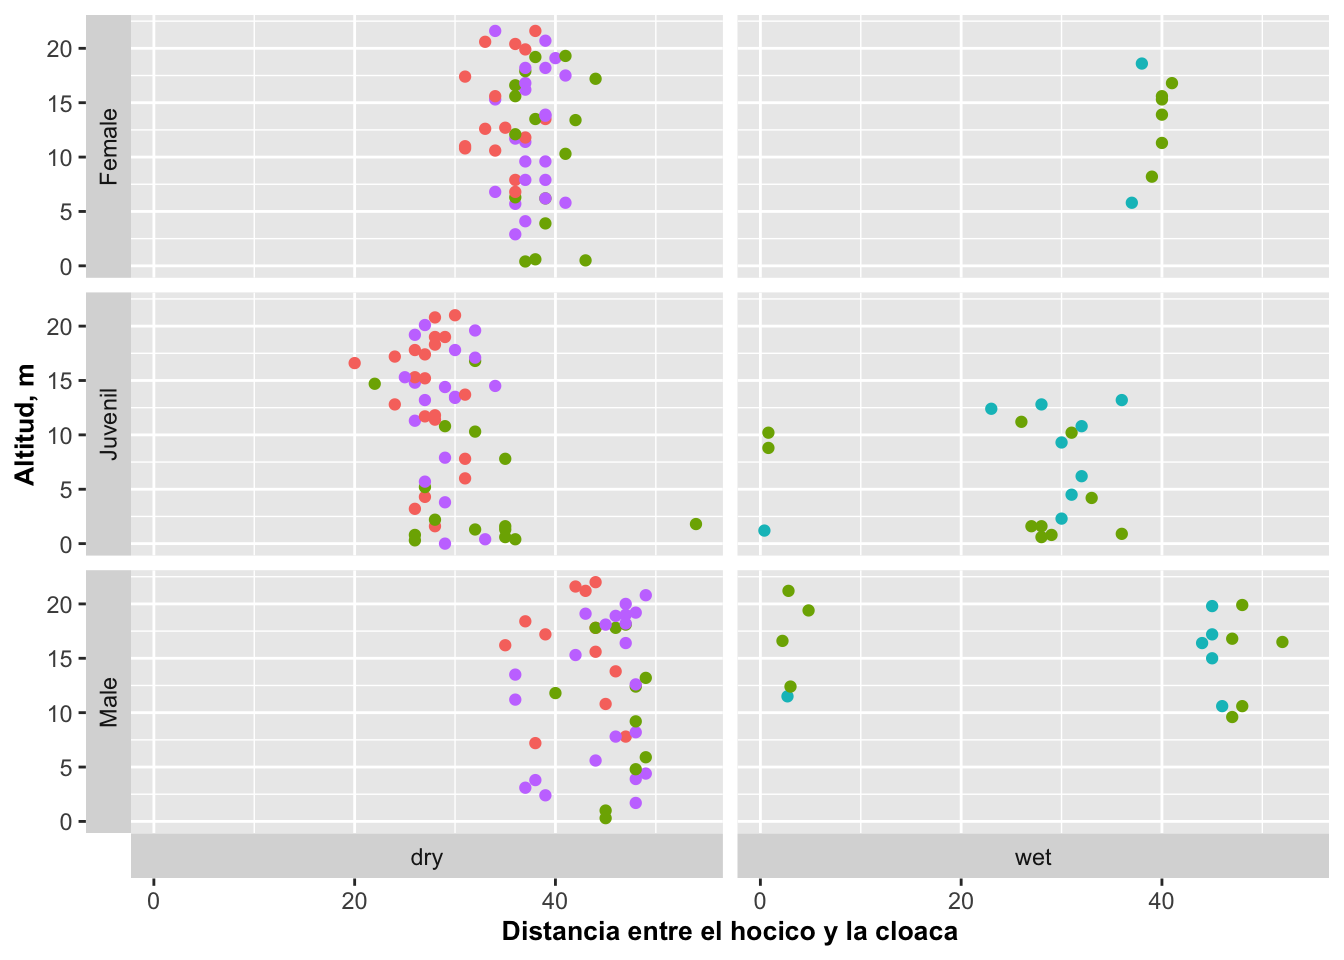
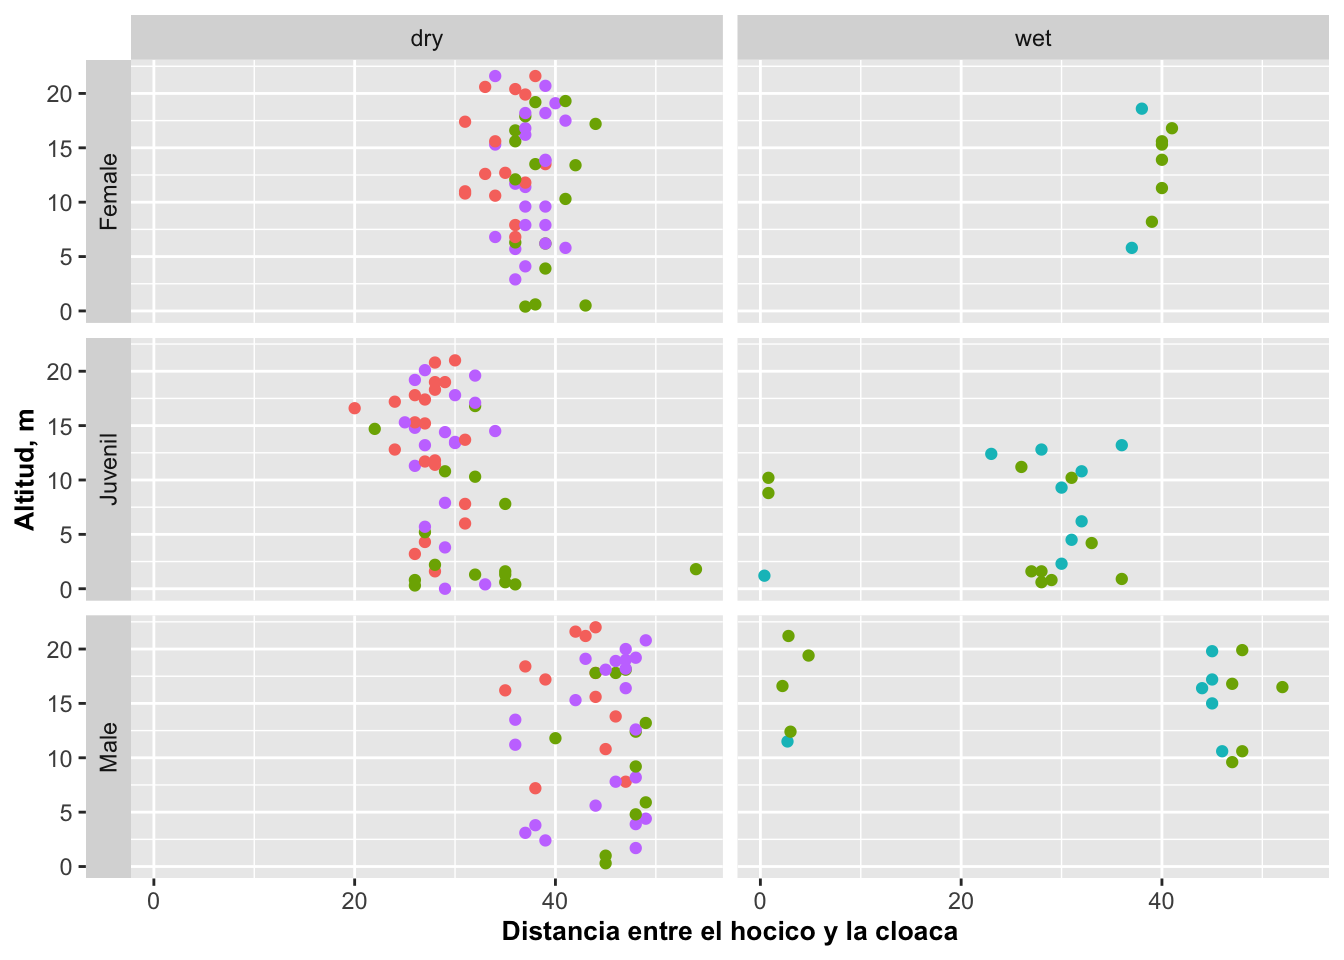
G9

diff --git a/G9_Facet_Grid.html b/G9_Facet_Grid.html
@@ -665,7 +665,7 @@ div.tocify {
 </div>
 <div id="facet_grid-con-cuadrículas-acostadas" class="section level2">
 <h2><strong>Facet_grid</strong> con cuadrículas acostadas</h2>
-<p>Ahora ponemos la variable antes de la <strong><sub><strong>, pero note que después de la </strong></sub></strong> hay un punot <strong>.</strong>. Notemos el efecto en la Figura a continuación.</p>
+<p>Ahora ponemos la variable antes de la <sub><strong>, pero note que después de la</strong></sub> hay un punot <strong>.</strong>. Notemos el efecto en la Figura a continuación.</p>
 <div class="sourceCode" id="cb4"><pre class="sourceCode r"><code class="sourceCode r"><span id="cb4-1"><a href="#cb4-1"></a>rr=<span class="kw">ggplot</span>(Anolis, <span class="kw">aes</span>(SVL, HEIGHT))</span>
 <span id="cb4-2"><a href="#cb4-2"></a></span>
 <span id="cb4-3"><a href="#cb4-3"></a>rr<span class="op">+</span><span class="kw">geom_point</span>(<span class="kw">aes</span>(<span class="dt">color=</span>Survey_Site))<span class="op">+</span></span>
@@ -708,22 +708,29 @@ div.tocify {
 <div id="cambio-de-las-posiciones-de-las-descripciones" class="section level2">
 <h2>Cambio de las posiciones de las descripciones</h2>
 <p>En el próximo gráfico veremos cómo cambiar el lugar donde están colocadas las descripciones de las categorías (sexo y estación del año) usando <strong>switch</strong>. Si se usa <strong>switch</strong> en el eje de <strong>X</strong>, la descripción de ese eje, que antes estaba arriba, ahora pasará abajo. Si se usa en el eje de <strong>Y</strong>, la descripción de la derecha pasa a la izquierda. Si se usa el parámetro <strong>both</strong> ambas descripciones cambian a su lado opuesto.</p>
+<div class="sourceCode" id="cb7"><pre class="sourceCode r"><code class="sourceCode r"><span id="cb7-1"><a href="#cb7-1"></a>rr<span class="op">+</span><span class="kw">geom_point</span>(<span class="kw">aes</span>(<span class="dt">color=</span>Survey_Site))<span class="op">+</span></span>
+<span id="cb7-2"><a href="#cb7-2"></a><span class="st">  </span><span class="kw">facet_grid</span>(SEX_AGE<span class="op">~</span>SEASON, <span class="dt">switch =</span> <span class="st">&quot;y&quot;</span>)<span class="op">+</span></span>
+<span id="cb7-3"><a href="#cb7-3"></a><span class="st">  </span><span class="kw">labs</span>(<span class="dt">y=</span><span class="st">&quot;Altitud, m&quot;</span>)<span class="op">+</span></span>
+<span id="cb7-4"><a href="#cb7-4"></a><span class="st">  </span><span class="kw">theme</span>(<span class="dt">legend.position=</span><span class="st">&quot;none&quot;</span>)<span class="op">+</span></span>
+<span id="cb7-5"><a href="#cb7-5"></a><span class="st">  </span><span class="kw">theme</span>(<span class="dt">axis.title=</span><span class="kw">element_text</span>(<span class="dt">size=</span><span class="dv">10</span>,<span class="dt">face=</span><span class="st">&quot;bold&quot;</span>))<span class="op">+</span></span>
+<span id="cb7-6"><a href="#cb7-6"></a><span class="st">  </span><span class="kw">xlab</span>(<span class="st">&quot;Distancia entre el hocico y la cloaca&quot;</span>)</span></code></pre></div>
 <p><img src="G9_Facet_Grid_files/figure-html/facetgrid4-1.png" width="672" /></p>
 <hr />
 </div>
 <div id="facet_grid-con-las-escalas-de-los-ejes-variable-en-x-y-y" class="section level2">
 <h2>Facet_grid con las escalas de los ejes variable en X y Y</h2>
 <p>La opción de <strong>space</strong> con <strong>facet_grid</strong>, da la oportunidad de modificar el rango de los ejes de <strong>Y</strong> y <strong>X</strong>. Por conveniencia, algunos de los rangos de los ejes de las figuras anteriores son iguales. Pero si uno quisiera que cada figura tuviera su propio rango, uno usa <strong>space=free_y</strong> o <strong>free_x</strong> para que sean proporcionales a la escala de los datos en uno o el otro eje. Sin embargo, a veces se quiere que ambos ejes sean proporcionales al rango de los datos y en tal caso se usa <strong>free</strong> solamente como se demuestra en la Figura.</p>
-<div class="sourceCode" id="cb7"><pre class="sourceCode r"><code class="sourceCode r"><span id="cb7-1"><a href="#cb7-1"></a>rr<span class="op">+</span><span class="kw">geom_point</span>(<span class="kw">aes</span>(<span class="dt">color=</span>Survey_Site))<span class="op">+</span></span>
-<span id="cb7-2"><a href="#cb7-2"></a><span class="st">  </span><span class="kw">facet_grid</span>(<span class="op">~</span>SEX_AGE, <span class="dt">scales=</span><span class="st">&quot;free&quot;</span>)<span class="op">+</span></span>
-<span id="cb7-3"><a href="#cb7-3"></a><span class="st">  </span><span class="kw">labs</span>(<span class="dt">y=</span><span class="st">&quot;Altitud, m&quot;</span>)<span class="op">+</span></span>
-<span id="cb7-4"><a href="#cb7-4"></a><span class="st">  </span><span class="kw">theme</span>(<span class="dt">legend.position=</span><span class="st">&quot;none&quot;</span>)<span class="op">+</span></span>
-<span id="cb7-5"><a href="#cb7-5"></a><span class="st">  </span><span class="kw">theme</span>(<span class="dt">axis.title=</span><span class="kw">element_text</span>(<span class="dt">size=</span><span class="dv">10</span>,<span class="dt">face=</span><span class="st">&quot;bold&quot;</span>))<span class="op">+</span></span>
-<span id="cb7-6"><a href="#cb7-6"></a><span class="st">  </span><span class="kw">xlab</span>(<span class="st">&quot;Distancia entre el hocico y la cloaca&quot;</span>)</span></code></pre></div>
+<div class="sourceCode" id="cb8"><pre class="sourceCode r"><code class="sourceCode r"><span id="cb8-1"><a href="#cb8-1"></a>rr<span class="op">+</span><span class="kw">geom_point</span>(<span class="kw">aes</span>(<span class="dt">color=</span>Survey_Site))<span class="op">+</span></span>
+<span id="cb8-2"><a href="#cb8-2"></a><span class="st">  </span><span class="kw">facet_grid</span>(<span class="op">~</span>SEX_AGE, <span class="dt">scales=</span><span class="st">&quot;free&quot;</span>)<span class="op">+</span></span>
+<span id="cb8-3"><a href="#cb8-3"></a><span class="st">  </span><span class="kw">labs</span>(<span class="dt">y=</span><span class="st">&quot;Altitud, m&quot;</span>)<span class="op">+</span></span>
+<span id="cb8-4"><a href="#cb8-4"></a><span class="st">  </span><span class="kw">theme</span>(<span class="dt">legend.position=</span><span class="st">&quot;none&quot;</span>)<span class="op">+</span></span>
+<span id="cb8-5"><a href="#cb8-5"></a><span class="st">  </span><span class="kw">theme</span>(<span class="dt">axis.title=</span><span class="kw">element_text</span>(<span class="dt">size=</span><span class="dv">10</span>,<span class="dt">face=</span><span class="st">&quot;bold&quot;</span>))<span class="op">+</span></span>
+<span id="cb8-6"><a href="#cb8-6"></a><span class="st">  </span><span class="kw">xlab</span>(<span class="st">&quot;Distancia entre el hocico y la cloaca&quot;</span>)<span class="op">+</span></span>
+<span id="cb8-7"><a href="#cb8-7"></a><span class="st">  </span><span class="kw">theme</span>(<span class="dt">axis.text.x =</span> <span class="kw">element_text</span>(<span class="dt">angle =</span> <span class="dv">60</span>, <span class="dt">vjust =</span> <span class="dv">1</span>, <span class="dt">hjust=</span><span class="dv">1</span>))</span></code></pre></div>
 <p><img src="G9_Facet_Grid_files/figure-html/facetgrid5-1.png" width="672" /></p>
 <hr />
 <ol style="list-style-type: decimal">
-<li>Usando los datos de <strong>diamonds</strong> en el paquete <em>ggplot2</em>
+<li><p>Usando los datos de <strong>diamonds</strong> en el paquete <em>ggplot2</em></p>
 <ul>
 <li>evalúa la relación entre el precio de los diamantes y los quilates (carat) con geom_point.</li>
 <li>haga un <strong>facet_grid</strong> con la calidad del corte del diamantes (cut) y el color del diamante (color).</li>
